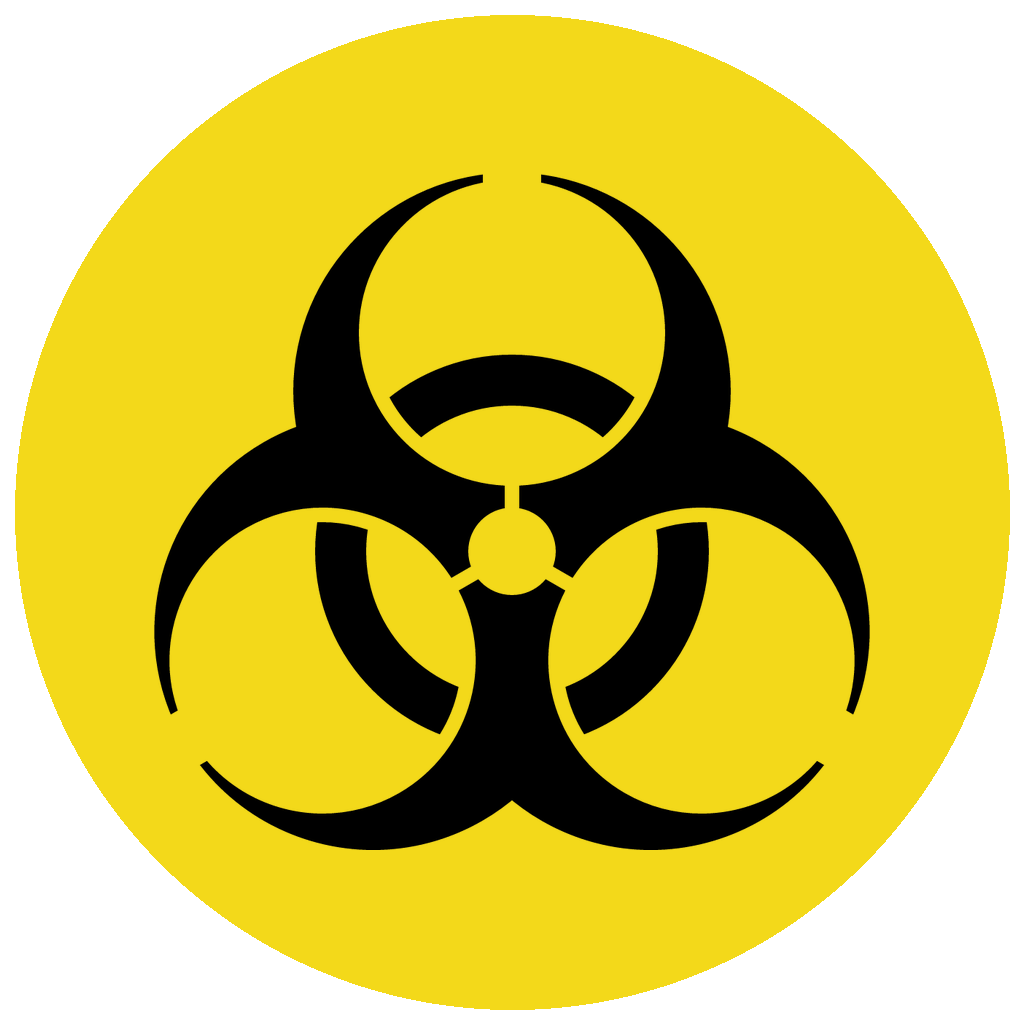
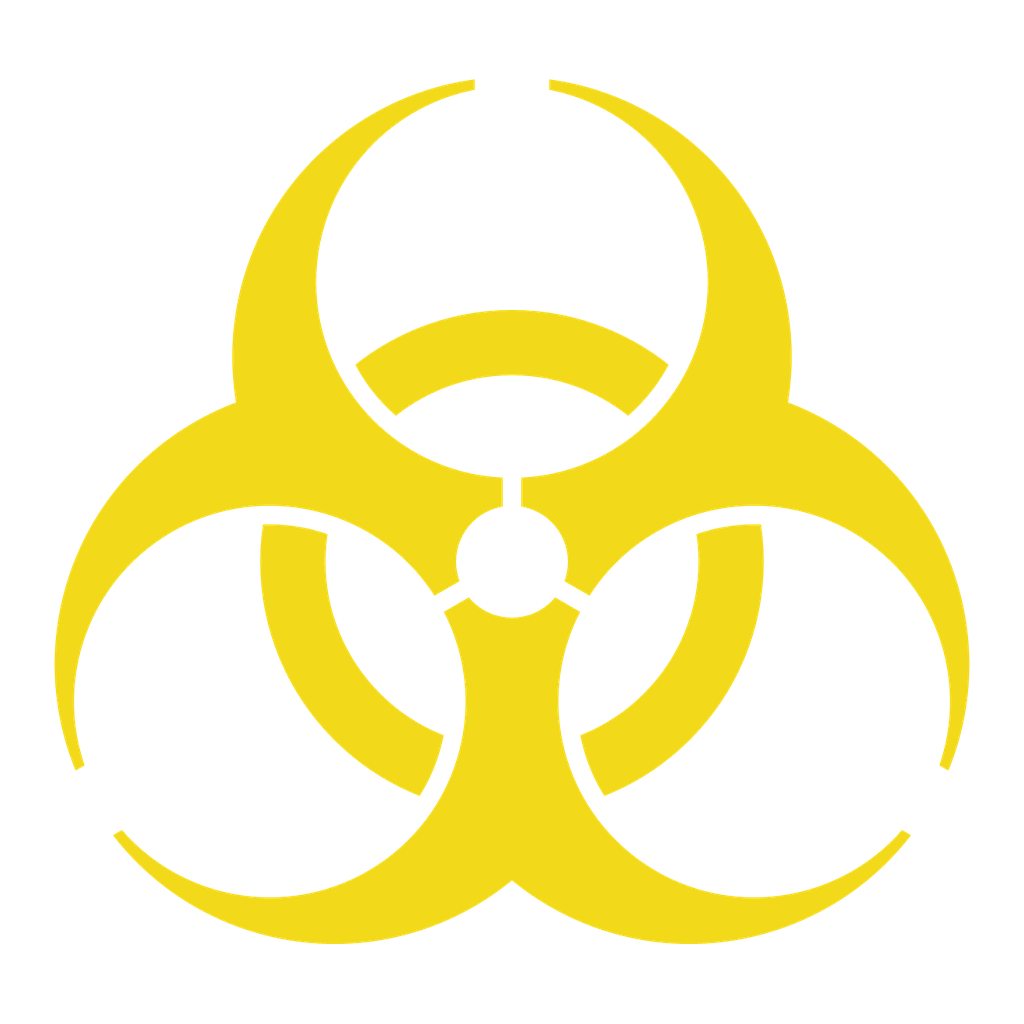
images: biohazard trefoil (see-through) + Flux mark
Regenerate biohazard.png as a hazard-yellow trefoil on a transparent
background (no disc), so it can overlay the carafe with the pot visible
through the gaps. Add flux-mark.png, the official Flux Framework mark
(white-and-light-blue, mark-only variant) for the Home logo. Update
ATTRIBUTION accordingly.

Assisted-by: Claude:opus-4.8

diff --git a/images/ATTRIBUTION.md b/images/ATTRIBUTION.md
@@ -10,9 +10,18 @@ on Wikimedia Commons, created by user **Silsor**, released into the
 The biohazard symbol itself is a standardized public safety sign and is not
 subject to copyright.
 
-Modifications: the original black trefoil (transparent background) was
-rasterized from the SVG and composited onto a hazard-yellow disc for
-legibility against brewcop's dark UI background.
+Modifications: the original black trefoil was rasterized from the SVG and
+recolored to hazard yellow on a transparent background (no disc), so it can
+be overlaid on the carafe with the pot visible through the gaps between the
+claws.
+
+## flux-mark.png
+
+The Flux logo mark (`flux-mark.png`) is the official Flux Framework logo,
+from the flux-framework website repository
+(`flux-framework.github.io`, `assets/images/Flux-mark-only-white-and-light-blue.png`).
+This is the mark-only, white-and-light-blue variant, chosen to read on the
+dark UI background. brewcop is itself part of the Flux Framework.
 
 ## brewcop.jpg
 
